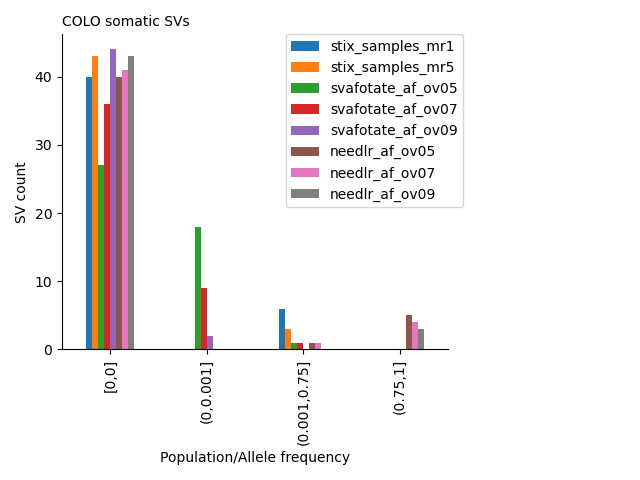
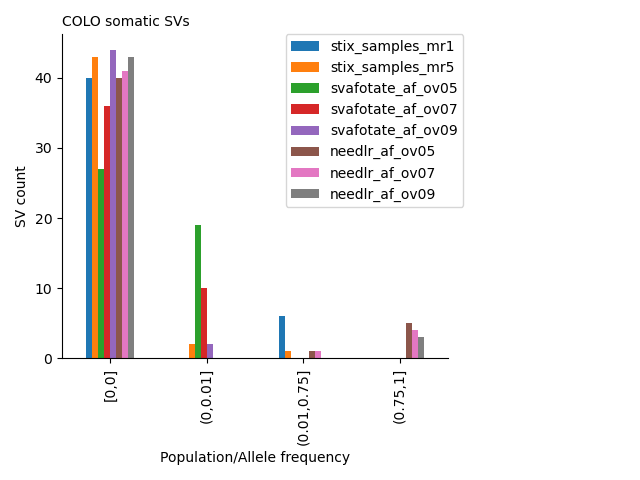
results: freq summary change bin intervals

diff --git a/results/2026_08-frequency_benchmark_summary/run.py b/results/2026_08-frequency_benchmark_summary/run.py
@@ -82,8 +82,8 @@ COL_NAME_NEEDLR_AF='needlr_af'
 def bin_frequencies(frequencies):
     counts = pd.Series({
     "[0,0]": (frequencies == 0).sum(),
-    "(0,0.001]": ((frequencies > 0) & (frequencies <= 0.001)).sum(),
-    "(0.001,0.75]": ((frequencies > 0.001) & (frequencies <= 0.75)).sum(),
+    "(0,0.01]": ((frequencies > 0) & (frequencies <= 0.01)).sum(),
+    "(0.01,0.75]": ((frequencies > 0.01) & (frequencies <= 0.75)).sum(),
     "(0.75,1]": ((frequencies > 0.75) & (frequencies <= 1)).sum(),
     })
     return counts
